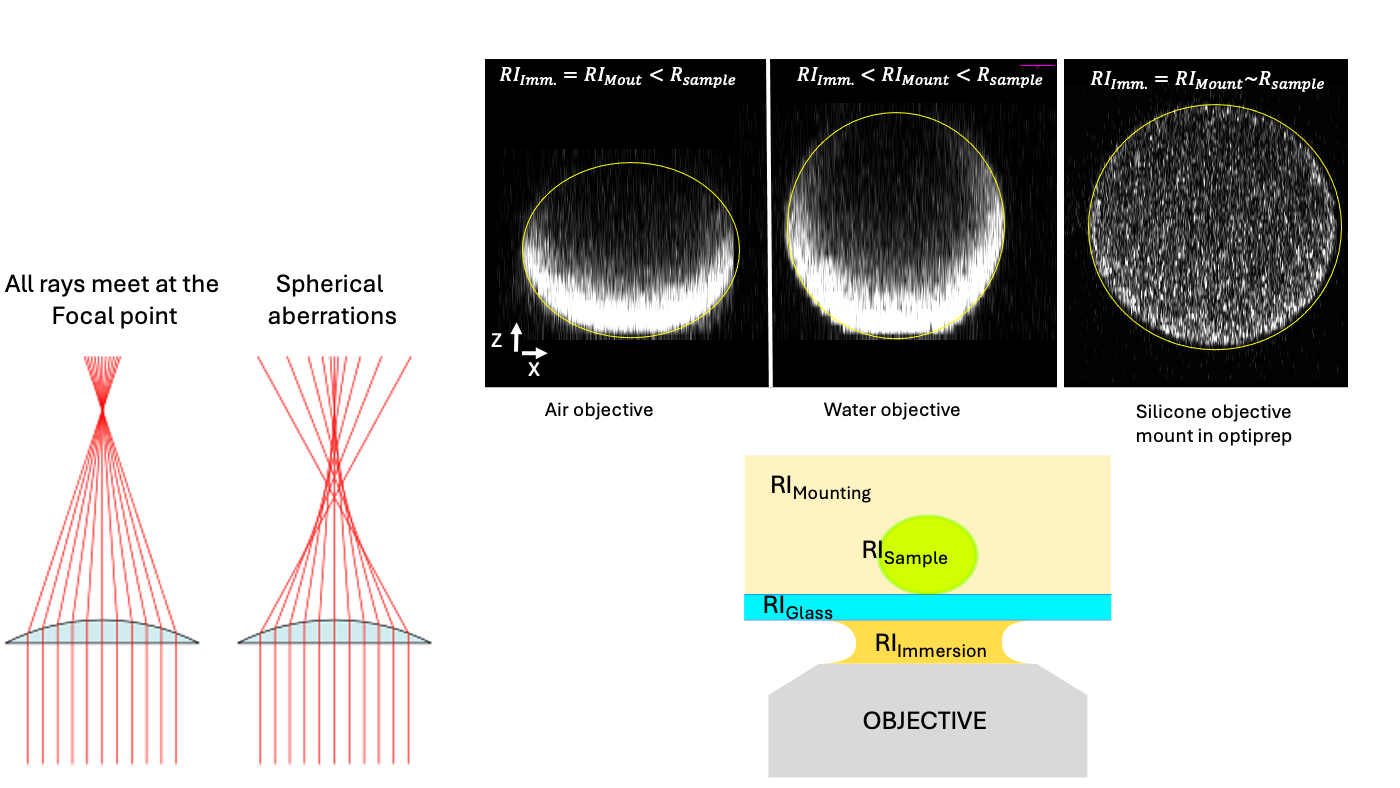
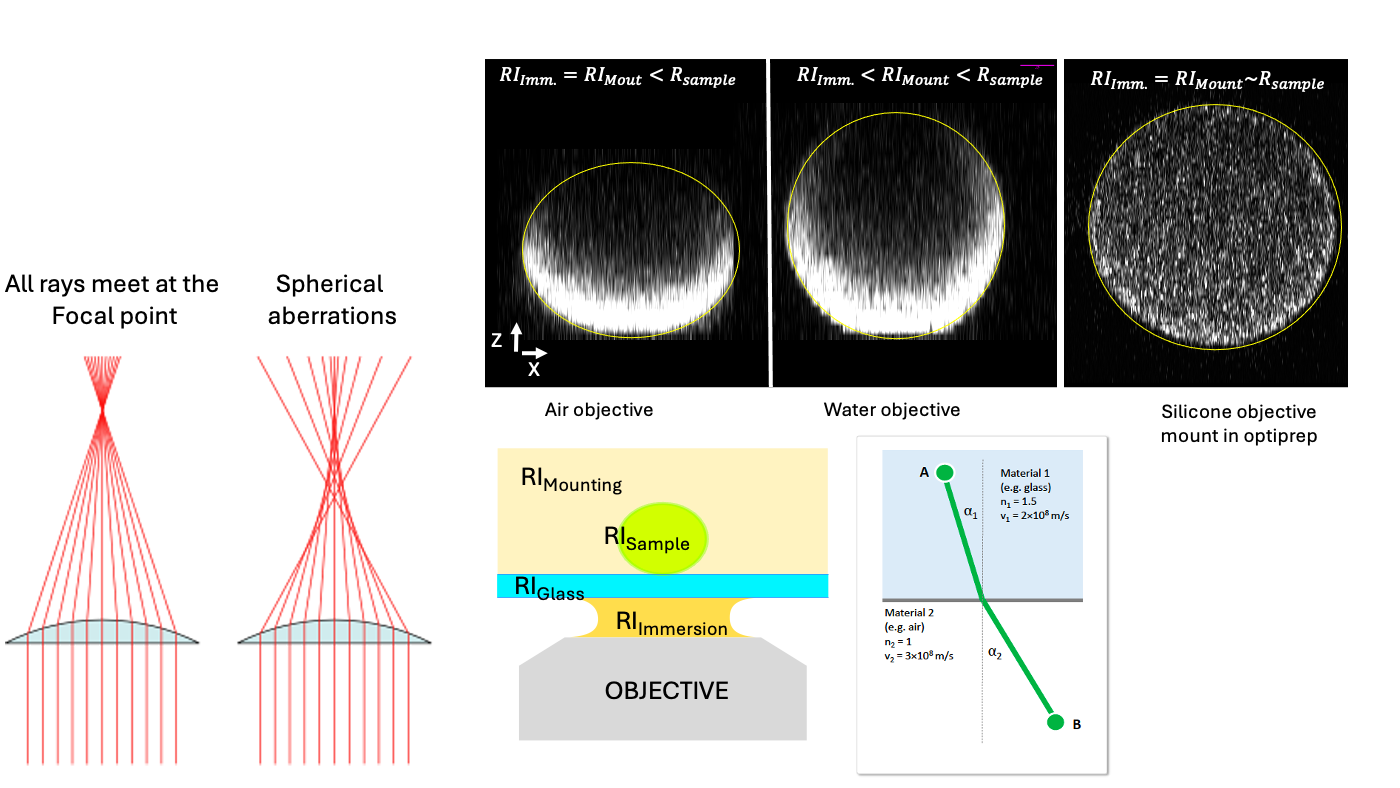
Merge pull request #827 from NEUBIAS/microscopy
Microscopy

Pull request: Microscopy
- [x] Course introductory module 
   - Module created
   - figure done
- [x] Illumination and shading artefacts 
   - Create module draft
   - Add the different text block
   - Add figure
   - Add activity with example images
- [x] flat field correction
   - Create module draft
   - Add the different text block
   - Add figure
   - Add activity with example images
- [x] Tiled acquisition and stitching
   - Have example images
 - [x] Spherical aberrations
   - Have example images of large sample in different mounting media

Here is a list of modules where I have not decided the granularity and structure yet (e.g. should we do PSF in 2D and a module for PSF in 3D, ...)
- [x] Point spread function 2D/3D, just describe the facts
- [x] Optical sectioning 
- [x] Image sampling, sample optimally, sample what is needed (DRAFT)

Changed region(s): [[0.3379, 0.5178, 0.9521, 1.0]]

diff --git a/cytoscape/generate_cytoscape_json.py b/cytoscape/generate_cytoscape_json.py
@@ -151,6 +151,7 @@ def create_cytoscape_json(files_data):
         reduced_adj_list = {node: set(neighbors) for node, neighbors in adj_list.items()}
         for node in adj_list:
             for neighbor in list(adj_list[node]):  # Iterate over a copy
+                print(neighbor, adj_list[neighbor])
                 for other_neighbor in adj_list[neighbor]:
                     if other_neighbor in reduced_adj_list[node]:
                         reduced_adj_list[node].remove(other_neighbor)

diff --git a/_modules/optical_sectioning.md b/_modules/optical_sectioning.md
@@ -1,0 +1,59 @@
+---
+title: Optical sectioning
+layout: module
+tags: ["image formation", "confocaility", "psf"]
+prerequisites:
+  - "[Point spread function](../psf)"
+objectives:
+  - "Understand the effect of optical sectioning in an image"
+motivation: |
+  The signal (e.g. photons) from a plane that is in focus gives a crisp and well resolved image. Unfortunately, we may also get photons from planes that are not in focus and this deteriorates the quality of the image (blur).  Optical sectioning describe the ability of an imaging system to isolate a thin plane of interest within a 3D specimen and reject (or avoid) out of focus light. 
+  
+  Technically there are different ways to achieve optical sectioning (pinhole in the detection, selective plane illumination, multi-photon). We can also use post-acquisition computational methods to reassign out-of-focus light, i.e. deconvolution. 
+
+concept_map: >
+  graph LR
+      %% 1. The Starting Point
+      Object[3D Specimen] -->|Goal: Isolate thin slices| OS{OPTICAL<br>SECTIONING}
+
+      %% 2. The Three Main Categories
+      OS --> Hardware[1. Hardware Sectioning<br>Photon Rejection]
+      OS --> Illumination[2. Illumination Sectioning<br>Selective Excitation]
+      OS --> Computational[3. Computational Sectioning<br>Photon Reassignment]
+
+      %% 3. Specific Methods
+      subgraph Methods [Specific Implementations]
+          Hardware --- Confocal["Confocal (Pinhole)"]
+          
+          Illumination --- LSFM["Light Sheet (LSFM)"]
+          Illumination --- TIRF["TIRF (Evanescent wave)"]
+          
+          Computational --- Decon["Deconvolution (PSF-based)"]
+      end
+
+figure: /figures/optical_sectioning.png
+figure_legend: Concept of optical sectioning and comparison of a widefield and confocal image
+
+multiactivities:
+  - ["optical_sectioning/act01.md", [["ImageJ GUI", "optical_sectioning/act01_imagejgui.md"]]]
+
+assessment: >
+
+  ### Fill in the blanks
+
+    1. In fluorescence microscopy the signal quality typically ___ when imaging deep inside a specimen.
+    1. In wide-field fluorescence microscopy there is no  ___ and thus signal intensity quantifications for one specific z-position are typically not possible.
+    
+    > ## Solution
+    >   1. decreases
+    >   1. optical sectioning
+    {: .solution}
+
+learn_next:
+  - "[Imaging thick biological samples](../image_formation_fluo_mic)"
+  - "[Spherical aberrations](../spherical_aberrations)"
+
+external_links:
+  - "[Optical sectioning methods in three-dimensional bioimaging (Zhang et al. 2025)](https://www.nature.com/articles/s41377-024-01677-x)"
+---
+

diff --git a/_modules/image_formation_fluo_mic.md b/_modules/image_formation_fluo_mic.md
@@ -1,15 +1,15 @@
 ---
-title: Fluorescence microscopy image formation
+title: Imaging thick biological samples
 layout: module
 tags: ["image formation"]
 prerequisites:
   - "[Digital image basics](../pixels)"
+  - "[Point spread function](../psf)"
+  - "[Optical sectioning](../optical_sectioning)"
 objectives:
-  - Understand how the intensities in a digital image that was acquired with a fluorescence microscope are formed
-  - Understand how this image formation process has critical influence on the interpretation of intensity measurements
-  - Understand that the geometry of your biological specimen can have a large influence on the measured intensities
+  - Understand that the geometry and optical properties of your biological specimen can have a large influence on the measured intensities
 motivation: |
-  In bioimage analysis one often wants to quantify the intensities in an image. To do this properly one needs to be aware that these intensities are influenced by many factors, making intensity quantification in general very difficult. Sometimes the measured intensities can be affected so much that even object shape measurements can become difficult. For all those reasons it is very important to understand the reasons for signal distortion! Not knowing those effects can easily lead to wrong measurements.
+  When imaging thick samples, one needs to be aware that intensities are influenced by many factors, making intensity quantification in general very difficult.  Measured intensities can be affected so much that even object shape measurements can become difficult. Already, the nature of the PSF makes measurements along the Z-direction different than in the XY plane, biological specimens can be more or less opaque (scattering, refracting index mismatch, absorption) making measurements deeper in the sample challenging. For all those reasons it is very important to understand the reasons for signal distortion. Not knowing those effects can easily lead to wrong measurements and conclusions. 
 
 concept_map: >
   graph TD
@@ -20,7 +20,6 @@ figure_legend: Membranes in a zebrafish embryo, imaged with a confocal microscop
 
 multiactivities:
   - ["image_formation_fluo_mic/image_formation_confocal.md", [["ImageJ GUI", "image_formation_fluo_mic/image_formation_confocal_imagej_gui.md"]]]
-  - ["image_formation_fluo_mic/image_formation_wf_vs_confocal.md", [["ImageJ GUI", "image_formation_fluo_mic/image_formation_wf_vs_confocal_imagej_gui.md"]]]
 
 assessment: >
 
@@ -28,17 +27,17 @@ assessment: >
 
     1. In fluorescence microscopy the signal quality typically ___ when imaging deep inside a specimen.
     1. In confocal microscopy elongated structures that align with the z-axis typically appear ___ than elongated structures that align with the x or y-axis.
-    1. In wide-field fluorescence microscopy there is no  ___ and thus signal intensity quantifications for one specific z-position are typically not possible.
     
     > ## Solution
     >   1. decreases
     >   1. brighter
-    >   1. optical sectioning
     {: .solution}
 
 learn_next:
   - "[Object intensity measurements](../measure_intensities)"
+  - "[Spherical aberrations](../spherical_aberrations)"
 
 external_links:
+ - 
 ---
 

diff --git a/index.md b/index.md
@@ -36,8 +36,6 @@ To get a sense for how this material may be used we compiled a selection of cons
     </div>
   </div>
   
-
-  
   <div class="course-card">
     <div class="course-icon"><i class="fas fa-microscope"></i></div>
     <h4><a href="basic-image-analysis-course">Bioimage Analysis</a></h4>
@@ -49,7 +47,7 @@ To get a sense for how this material may be used we compiled a selection of cons
     </div>
   </div>
 
-   <div class="course-card">
+  <div class="course-card">
     <div class="course-icon"><i class="fas fa-microscope"></i></div>
     <h4><a href="advanced-image-analysis-course">Advanced Topics in Bioimage Analysis (DRAFT)</a></h4>
     <p>Further improve your skills in image analysis.</p>
@@ -70,8 +68,6 @@ To get a sense for how this material may be used we compiled a selection of cons
       <span class="course-credits">0.125 CP</span>
     </div>
   </div>
-
-
 
   <div class="course-card">
     <div class="course-icon"><i class="fas fa-tasks"></i></div>
@@ -106,8 +102,6 @@ To get a sense for how this material may be used we compiled a selection of cons
     </div>
   </div>
   
-
-
   <div class="course-card">
     <div class="course-icon"><i class="fas fa-bolt"></i></div>
     <h4><a href="imagej-macro-course">ImageJ Macro</a></h4>
@@ -118,6 +112,7 @@ To get a sense for how this material may be used we compiled a selection of cons
       <span class="course-credits">0.2 CP</span>
     </div>
   </div>
+
   <div class="course-card">
     <div class="course-icon"><i class="fas fa-microscope"></i></div>
     <h4><a href="image_formation_and_artefacts">Image formation and imaging artefacts</a></h4>

diff --git a/_modules/psf.md b/_modules/psf.md
@@ -4,6 +4,7 @@ layout: module
 tags: ["microscopy", "image formation", "psf"]
 prerequisites:
   - "[Digital image basics](../pixels)"
+
 objectives:
   - Identify PSF-induced artifacts in microscopy images, specifically axial elongation (Z-distortion) and lateral blurring.
   - Predict the impact of the PSF on quantitative measurements, including how it inflates object size and dilutes signal intensity.
@@ -26,7 +27,6 @@ figure_legend: "Image formation in a confocal microscope: central longitudinal (
 
 multiactivities:
   - ["psf/fluorescent_beads.md", [["ImageJ GUI", "psf/fluorescent_beads_imagejgui.md"]]]
-  - ["psf/image_formation_wf_vs_confocal.md", [["ImageJ GUI", "psf/image_formation_wf_vs_confocal_imagej_gui.md"]]]
   
 
 assessment: >
@@ -42,9 +42,12 @@ assessment: >
     {: .solution}
 
 learn_next:
-  - "[TODO](../auto_threshold)"
+  - "[Imaging thick biological samples](../image_formation_fluo_mic)"
+  - "[Optical sectioning](../optical_sectioning)"
 
 external_links:
   - "[Wikipedia: Point spread function](https://en.wikipedia.org/wiki/Point_spread_function)"
+  - "[iBiology Video: Huygens Wavelets Constructive/Destructive Interference, and Diffraction](https://www.ibiology.org/talks/diffraction/)"
+  - "[iBiology Video: Point spread function](https://www.ibiology.org/talks/point-spread-function/)"
 ---
 

diff --git a/_modules/spherical_aberrations.md b/_modules/spherical_aberrations.md
@@ -67,6 +67,7 @@ multiactivities:
   - ["spherical_aberrations/act01.md", [["ImageJ GUI", "spherical_aberrations/act01_imagejgui.md"]]]
 
 
+
 assessment: >
   ### Intensity and refractive index matching
 
@@ -105,5 +106,8 @@ learn_next:
 
 external_links:
   - "[SVI - Spherical aberrations](https://svi.nl/SphericalAberration)"
+  - "[Tissue clearing and its applications in neuroscience (Ueda et al 2020)](https://www.nature.com/articles/s41583-019-0250-1)"
+  - "[A tunable refractive index matching medium for live imaging cells, tissues and model organisms (Boothe et al. 2017)]( https://doi.org/10.7554/eLife.27240)"
+  - "[Tutorial: practical considerations for tissue clearing and imaging (Weiss et al. 2021)](https://doi.org/10.1038/s41596-021-00502-8)"
 ---
 

diff --git a/_courses/advanced-image-analysis-course.md b/_courses/advanced-image-analysis-course.md
@@ -1,6 +1,6 @@
 ---
 title: Advanced Topics in Bioimage Analysis (DRAFT)
-module_order: ["object_filtering", "distance_transform", "watershed", "skeletonization", "workflow_nuclei_and_cells_segmentation"]
+module_order: ["object_filtering", "distance_transform", "watershed", "skeletonization", "correlative image_rendering", "workflow_nuclei_and_cells_segmentation"]
 ---
 
 {% include base_path.html %}

diff --git a/_courses/image_formation_and_artefacts.md b/_courses/image_formation_and_artefacts.md
@@ -1,7 +1,7 @@
 ---
 title: Image formation and imaging artefacts 
 
-module_order: ["image_formation_and_artefacts_course", "image_formation_fluo_mic", "psf", "sampling",  "illumination_artefact", "flatfield_correction", "stitching", "spherical_aberrations"]
+module_order: ["image_formation_and_artefacts_course", "psf", "sampling", "optical_sectioning","image_formation_fluo_mic", "spherical_aberrations", "illumination_artefact", "flatfield_correction", "stitching"]
 ---
 
 {% include base_path.html %}